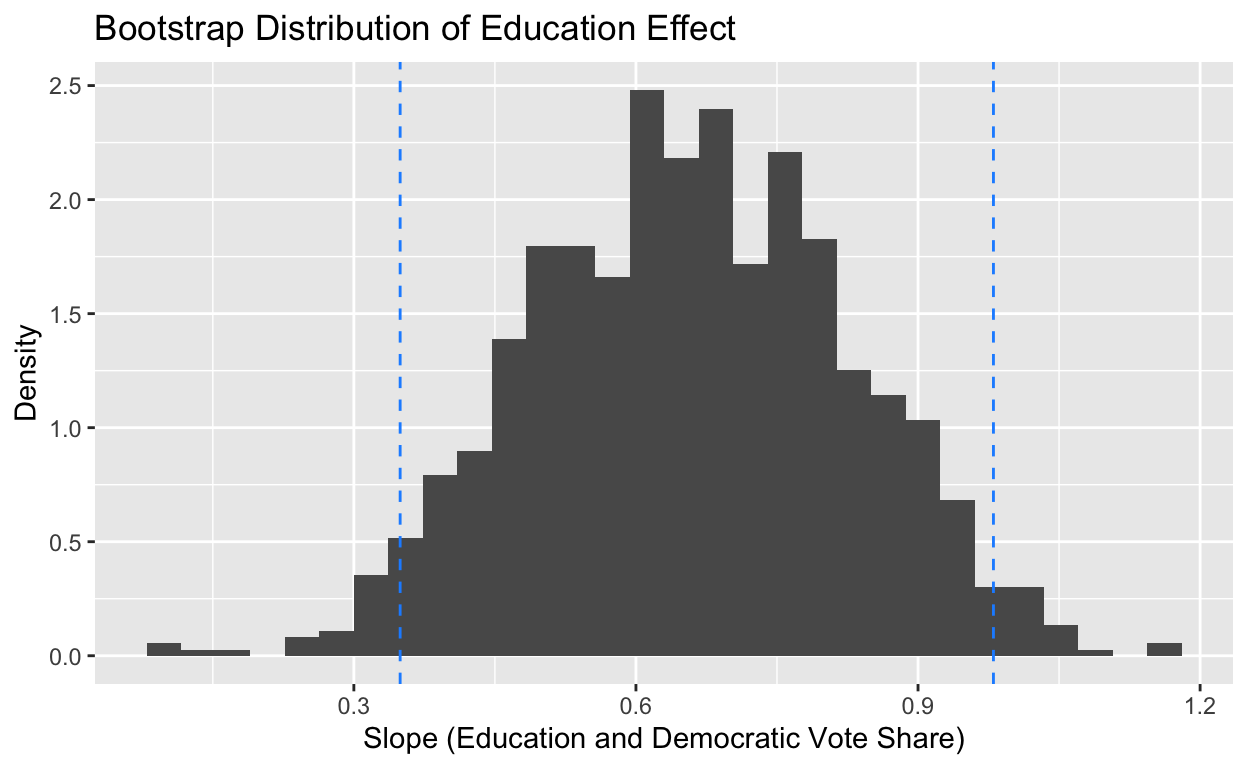
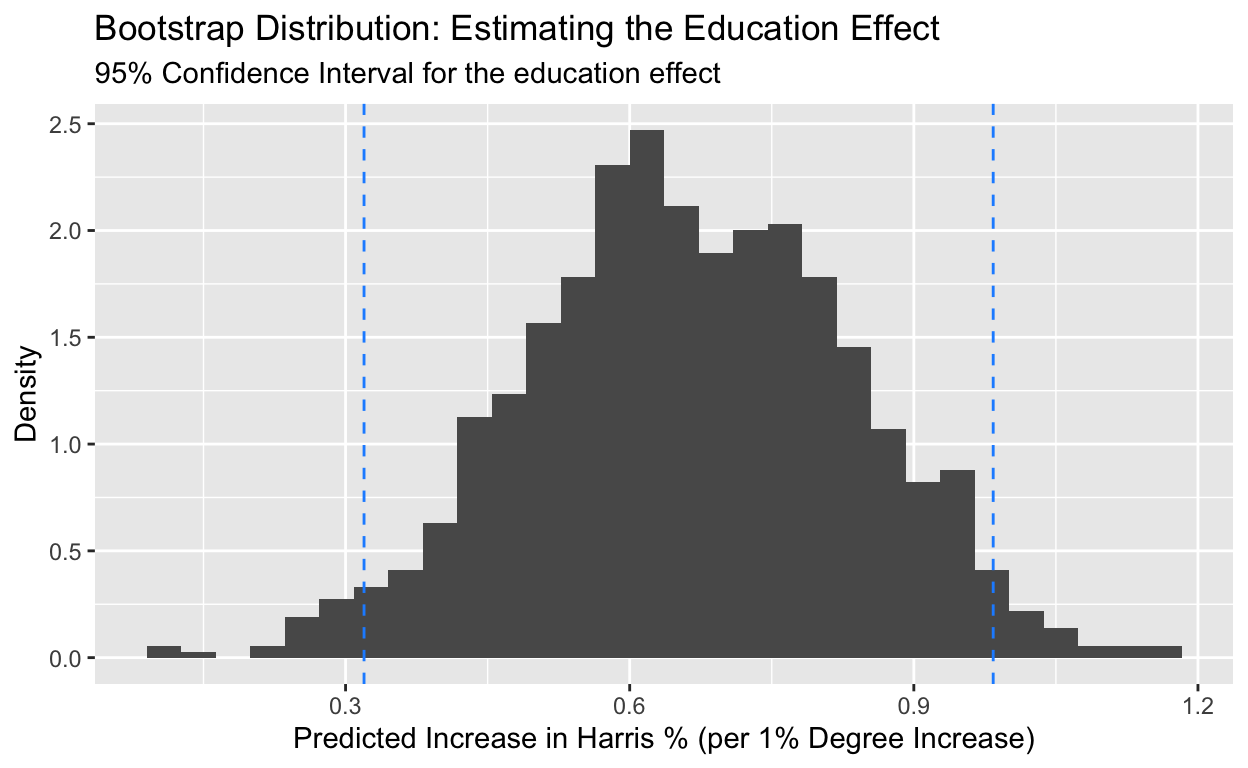
changes

diff --git a/index.html b/index.html
@@ -3650,11 +3650,11 @@ WOOD
 <span>  <span class='fu'><a href='https://infer.tidymodels.org/reference/visualize.html'>visualize</a></span><span class='op'>(</span><span class='op'>)</span> <span class='op'>+</span></span>
 <span>  <span class='fu'><a href='https://infer.tidymodels.org/reference/shade_p_value.html'>shade_p_value</a></span><span class='op'>(</span>obs_stat <span class='op'>=</span> <span class='va'>edu_slope</span>, direction <span class='op'>=</span> <span class='st'>"both"</span><span class='op'>)</span> <span class='op'>+</span></span>
 <span>  <span class='fu'><a href='https://ggplot2.tidyverse.org/reference/labs.html'>labs</a></span><span class='op'>(</span></span>
-<span>    title <span class='op'>=</span> <span class='st'>"Null Distribution of the Slope"</span>,</span>
-<span>    subtitle <span class='op'>=</span> <span class='st'>"Shaded area represents the p-value"</span>,</span>
-<span>    x <span class='op'>=</span> <span class='st'>"Simulated Slope"</span>,</span>
-<span>    y <span class='op'>=</span> <span class='st'>"Count"</span></span>
-<span>  <span class='op'>)</span></span>
+<span>    title <span class='op'>=</span> <span class='st'>"Null Distribution: Education vs. Harris Vote Share"</span>,</span>
+<span>    subtitle <span class='op'>=</span> <span class='st'>"Observed slope against 1,000 randomized simulations"</span>,</span>
+<span>    x <span class='op'>=</span> <span class='st'>"Simulated Education Effect (Randomized)"</span>,</span>
+<span>    y <span class='op'>=</span> <span class='st'>"Frequency (Count)"</span></span>
+<span>  <span class='op'>)</span> </span>
 <span></span>
 <span><span class='va'>edu_null</span> <span class='op'>|&gt;</span></span>
 <span>  <span class='fu'><a href='https://infer.tidymodels.org/reference/get_p_value.html'>get_p_value</a></span><span class='op'>(</span>obs_stat <span class='op'>=</span> <span class='va'>edu_slope</span>, direction <span class='op'>=</span> <span class='st'>"both"</span><span class='op'>)</span> <span class='op'>|&gt;</span></span>
@@ -3675,8 +3675,9 @@ WOOD
 <span>  <span class='fu'><a href='https://ggplot2.tidyverse.org/reference/geom_abline.html'>geom_vline</a></span><span class='op'>(</span><span class='fu'><a href='https://ggplot2.tidyverse.org/reference/aes.html'>aes</a></span><span class='op'>(</span>xintercept <span class='op'>=</span> <span class='va'>lower</span><span class='op'>)</span>, data <span class='op'>=</span> <span class='va'>edu_ci_95</span>, linetype <span class='op'>=</span> <span class='st'>"dashed"</span>, color <span class='op'>=</span> <span class='st'>"dodgerblue1"</span><span class='op'>)</span> <span class='op'>+</span></span>
 <span>  <span class='fu'><a href='https://ggplot2.tidyverse.org/reference/geom_abline.html'>geom_vline</a></span><span class='op'>(</span><span class='fu'><a href='https://ggplot2.tidyverse.org/reference/aes.html'>aes</a></span><span class='op'>(</span>xintercept <span class='op'>=</span> <span class='va'>upper</span><span class='op'>)</span>, data <span class='op'>=</span> <span class='va'>edu_ci_95</span>, linetype <span class='op'>=</span> <span class='st'>"dashed"</span>, color <span class='op'>=</span> <span class='st'>"dodgerblue1"</span><span class='op'>)</span> <span class='op'>+</span></span>
 <span>  <span class='fu'><a href='https://ggplot2.tidyverse.org/reference/labs.html'>labs</a></span><span class='op'>(</span></span>
-<span>    title <span class='op'>=</span> <span class='st'>"Bootstrap Distribution of Education Effect"</span>,</span>
-<span>    x <span class='op'>=</span> <span class='st'>"Slope (Education and Democratic Vote Share)"</span>,</span>
+<span>    title <span class='op'>=</span> <span class='st'>"Bootstrap Distribution: Estimating the Education Effect"</span>,</span>
+<span>    subtitle <span class='op'>=</span> <span class='st'>"95% Confidence Interval for the education effect"</span>,</span>
+<span>    x <span class='op'>=</span> <span class='st'>"Predicted Increase in Harris % (per 1% Degree Increase)"</span>,</span>
 <span>    y <span class='op'>=</span> <span class='st'>"Density"</span></span>
 <span>  <span class='op'>)</span></span></code></pre>
 </div>
